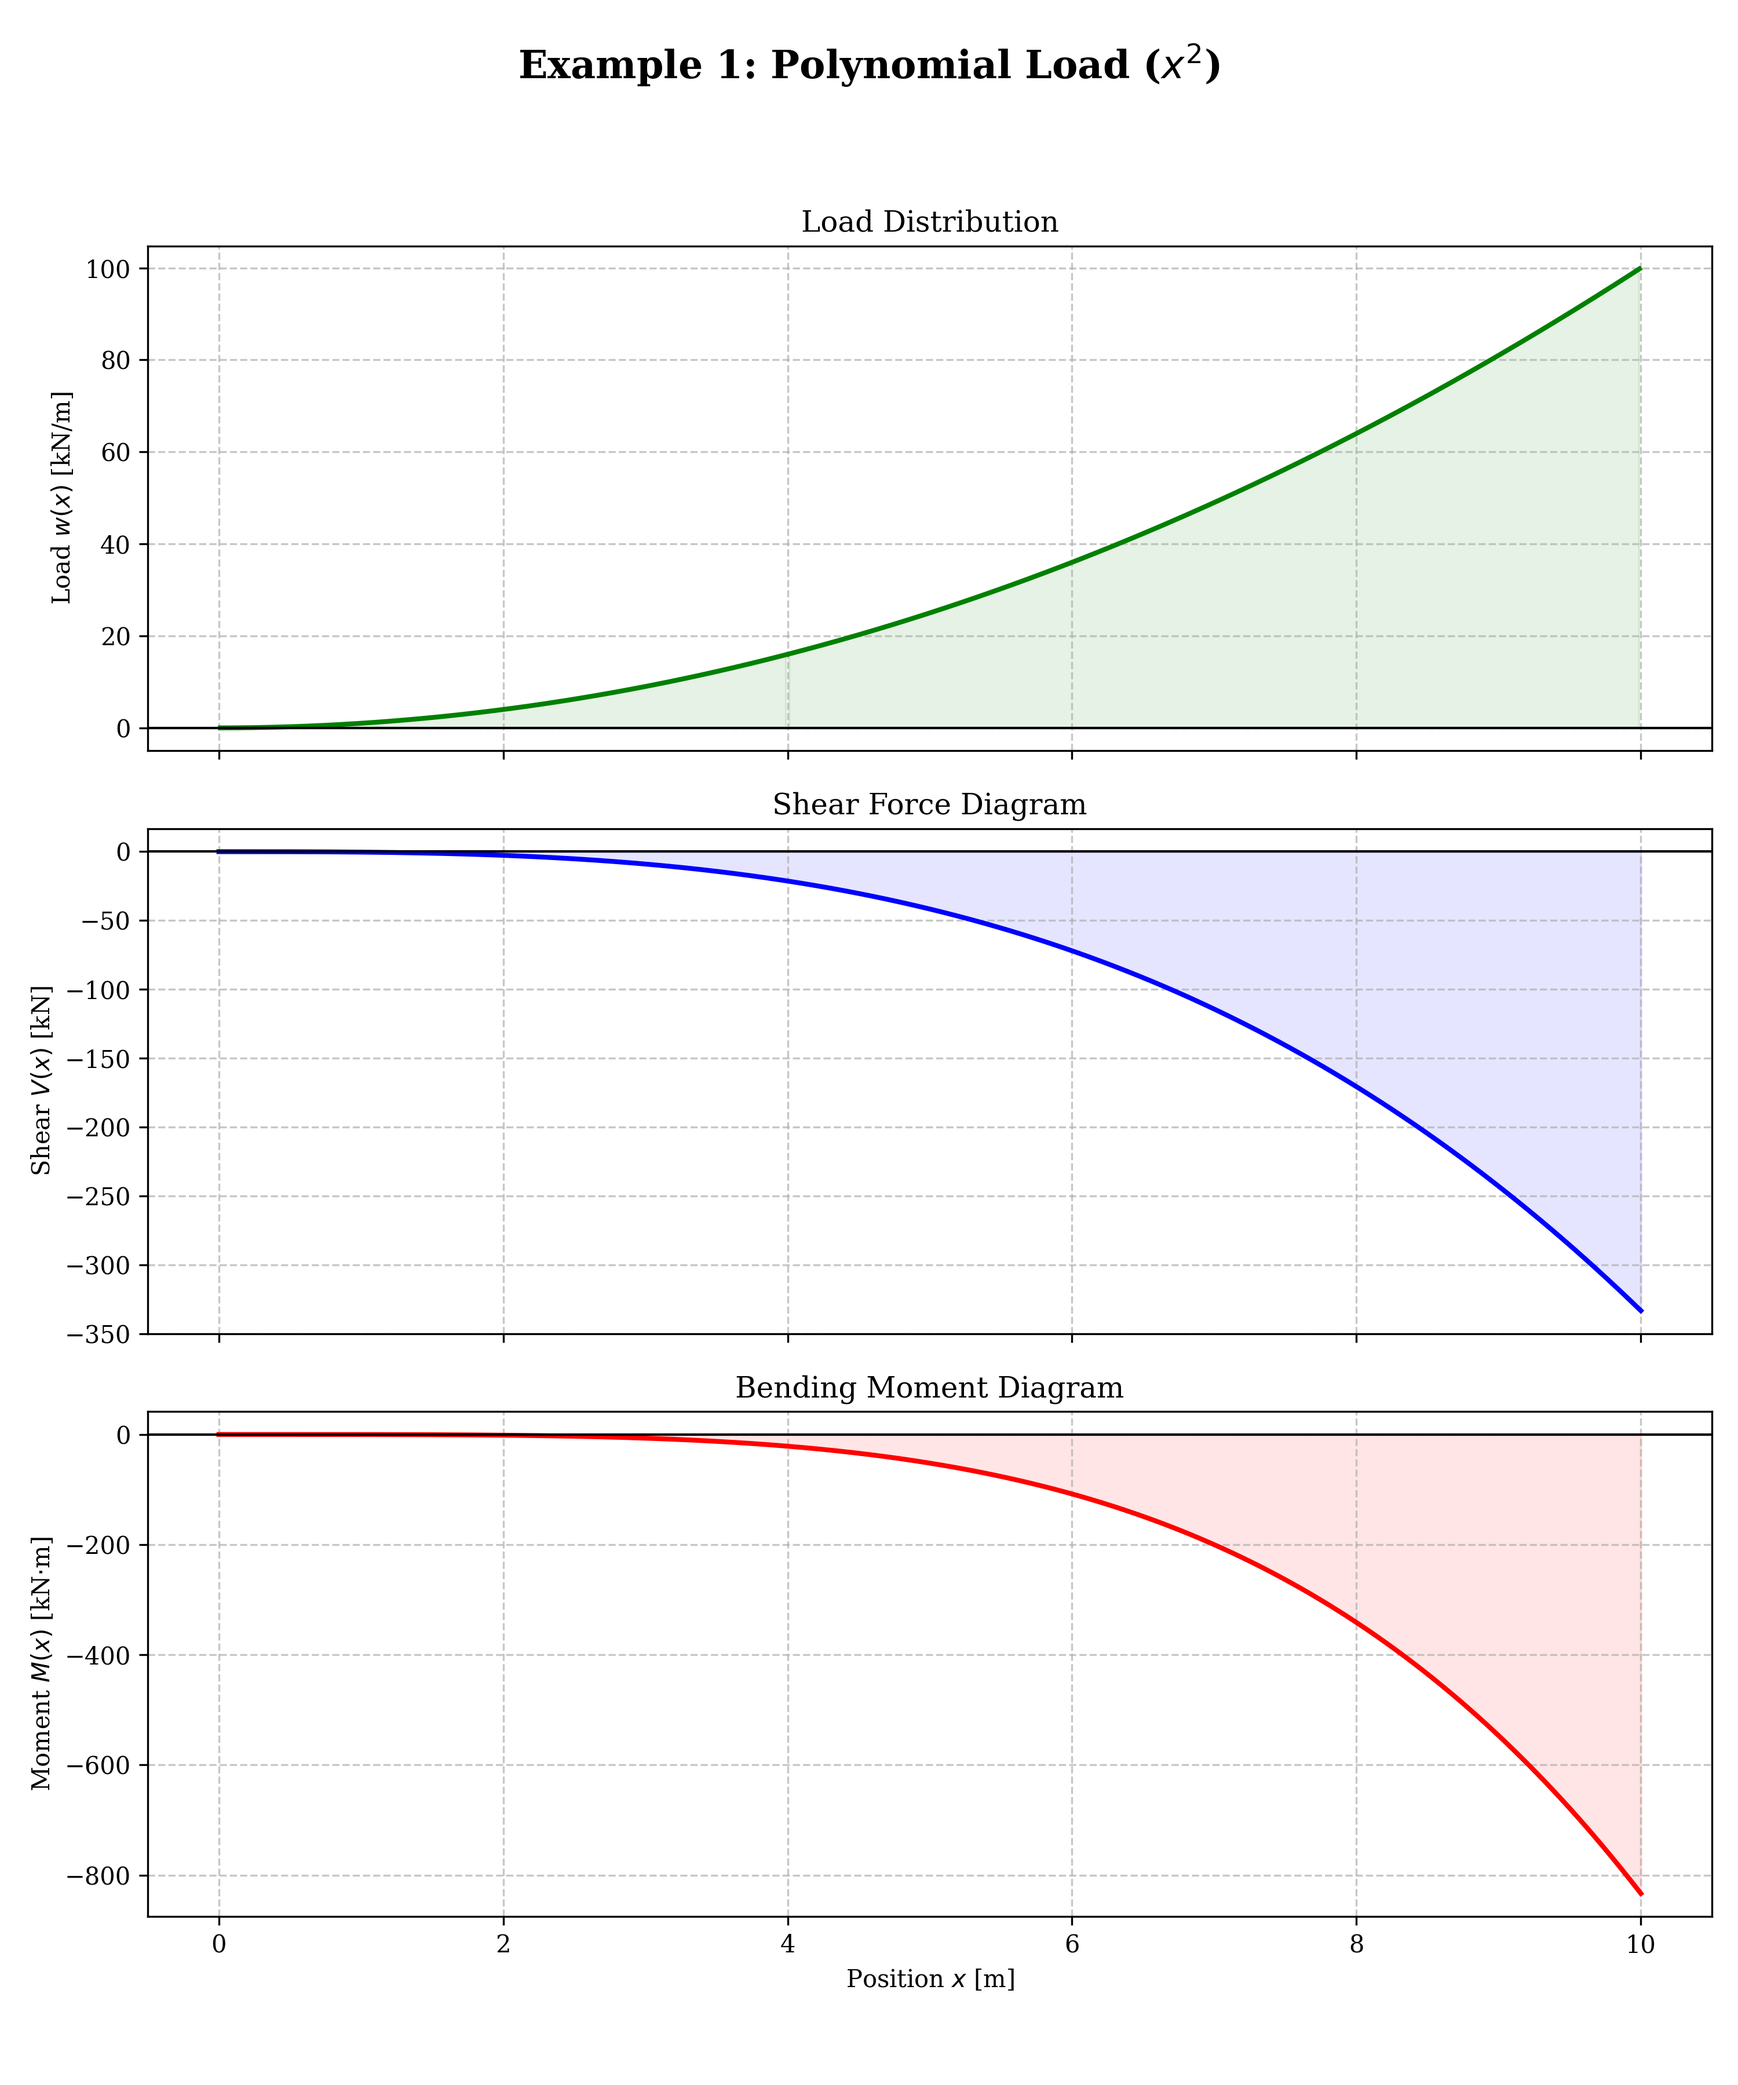
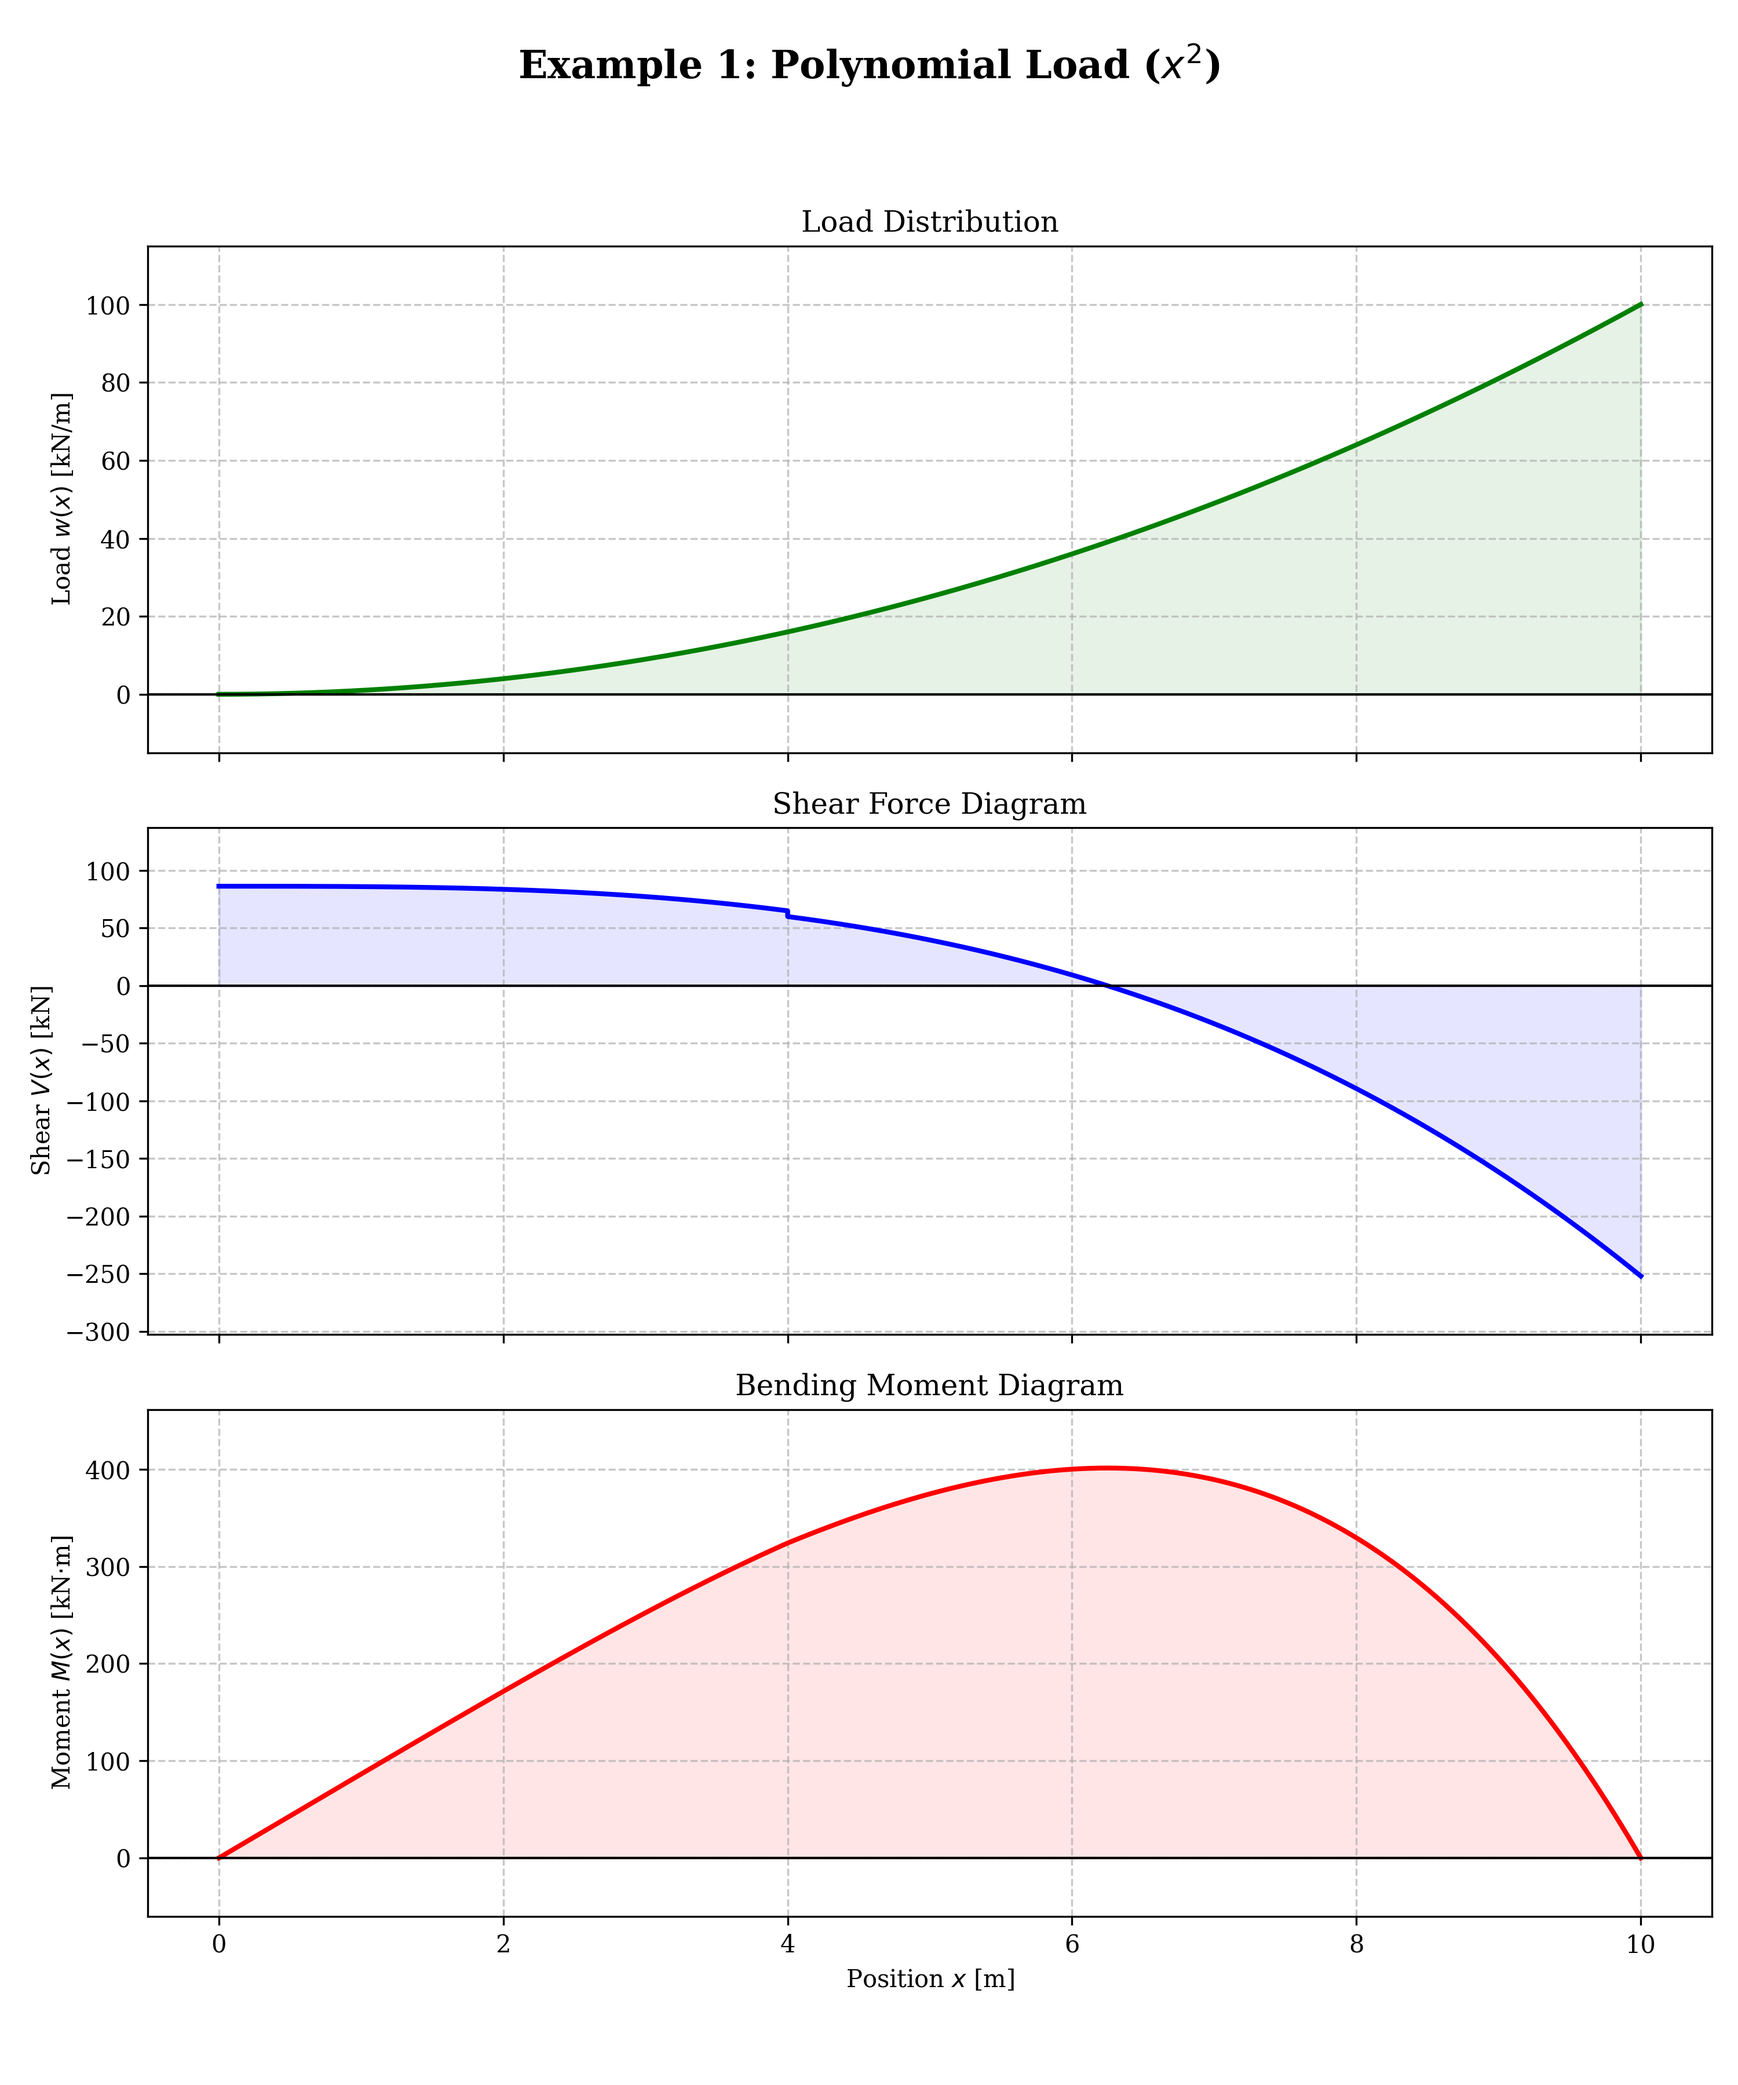
Refactor Visualizer and Beam Analyzer: fixed discontinuity plotting, resolved floating graph and boundary parity, eliminated expression bloat, padded y-limits, added developer max mode

diff --git a/visualizer.py b/visualizer.py
@@ -86,7 +86,11 @@ class BeamVisualizer:
             p_start = sorted_points[i]
             p_end = sorted_points[i + 1]
             n_seg = max(2, int(num_points * (p_end - p_start) / self.L))
-            seg_x = np.linspace(p_start, p_end, n_seg)
+            
+            # Step offset captures mathematically accurate Right/Left Limits 
+            # without triggering exact symbolic edge collision evaluation
+            eps = 1e-9
+            seg_x = np.linspace(p_start + eps, p_end - eps, n_seg)
 
             try:
                 with np.errstate(divide='ignore', invalid='ignore'):
@@ -97,10 +101,8 @@ class BeamVisualizer:
             x_final.extend(seg_x)
             y_final.extend(seg_y)
 
-            # Insert NaN gap at internal boundaries to break the line
-            if i < len(sorted_points) - 2:
-                x_final.append(p_end)
-                y_final.append(np.nan)
+            # Note: We omit internal NaN insertion here to force 
+            # vertical "jumps" to draw correctly across boundaries.
 
         return np.array(x_final), np.array(y_final)
 
@@ -110,8 +112,18 @@ class BeamVisualizer:
             self.analyzer.solve_reactions()
 
         load = self.analyzer.get_distributed_load_expr()
-        shear = self.analyzer.get_shear_force()
-        moment = self.analyzer.get_bending_moment()
+        shear = self.analyzer.beam.shear_force()
+        moment = self.analyzer.beam.bending_moment()
+
+        def set_padded_ylim(ax, y_vals):
+            """Ensures boundary jumps aren't cut off by adding a 15% visual pad."""
+            valid_y = y_vals[np.isfinite(y_vals)]
+            if len(valid_y) == 0:
+                return
+            y_min, y_max = np.min(valid_y), np.max(valid_y)
+            rng = y_max - y_min
+            pad = 1.0 if rng == 0 else rng * 0.15
+            ax.set_ylim(y_min - pad, y_max + pad)
 
         fig, (ax1, ax2, ax3) = plt.subplots(3, 1, figsize=(10, 12), sharex=True)
         fig.suptitle(title, fontsize=16, fontweight='bold')
@@ -124,6 +136,7 @@ class BeamVisualizer:
         ax1.set_title('Load Distribution')
         ax1.grid(True, linestyle='--', alpha=0.7)
         ax1.axhline(0, color='black', linewidth=1)
+        set_padded_ylim(ax1, y_w)
 
         # --- Shear Force Diagram ---
         x_v, y_v = self._get_plot_data(shear)
@@ -133,6 +146,7 @@ class BeamVisualizer:
         ax2.set_title('Shear Force Diagram')
         ax2.grid(True, linestyle='--', alpha=0.7)
         ax2.axhline(0, color='black', linewidth=1)
+        set_padded_ylim(ax2, y_v)
 
         # --- Bending Moment Diagram ---
         x_m, y_m = self._get_plot_data(moment)
@@ -143,6 +157,7 @@ class BeamVisualizer:
         ax3.set_title('Bending Moment Diagram')
         ax3.grid(True, linestyle='--', alpha=0.7)
         ax3.axhline(0, color='black', linewidth=1)
+        set_padded_ylim(ax3, y_m)
 
         plt.tight_layout(rect=[0, 0.03, 1, 0.95])
 

diff --git a/beam_analyzer.py b/beam_analyzer.py
@@ -45,6 +45,7 @@ class BeamAnalyzer:
         self.reactions = {}
         self._solved = False
         self._reaction_positions = {}
+        self.sys_matrices = (None, None)
 
     # ------------------------------------------------------------------
     # Defensive Programming
@@ -317,15 +318,32 @@ class BeamAnalyzer:
             except Exception:
                 sols = sympy_solve(equations, C, dict=True)
                 sol_dict = {k: nsimplify(v.expand()) for k, v in sols[0].items()} if sols else {c: 0 for c in C}
+            
+            self.sys_matrices = (A, B)
 
         # Plug back into Beam object
         final_theta = piecewise_theta.subs(sol_dict).rewrite(Piecewise)
         final_y = piecewise_y.subs(sol_dict).rewrite(Piecewise)
 
         # Upgrade engine without breaking dashboard
+        self.beam.shear_force = lambda **kwargs: _safe_simplify(piecewise_fold(self.get_shear_force().rewrite(Piecewise)))
+        self.beam.bending_moment = lambda **kwargs: _safe_simplify(piecewise_fold(self.get_bending_moment().rewrite(Piecewise)))
         self.beam.slope = lambda **kwargs: final_theta
         self.beam.deflection = lambda **kwargs: final_y
         return True
+
+    def print_matrix_state(self):
+        """Developer Mode: Print the state of boundary condition assembly."""
+        A, B = self.sys_matrices
+        if A is None or B is None:
+            print("[DevMode] Systems matrices not assembled yet.")
+            return
+
+        print(f"\n[DevMode] Boundary Condition Matrix [A] ({A.rows}x{A.cols}):")
+        from sympy import pprint
+        pprint(A)
+        print(f"\n[DevMode] Output State Vector [B] ({B.rows}x{B.cols}):")
+        pprint(B)
 
     # ------------------------------------------------------------------
     # Analysis Results
@@ -337,11 +355,12 @@ class BeamAnalyzer:
         
         if not self._solved:
             self.solve_reactions()
-        # Force Piecewise rewrite at the start of analysis
+        # DO NOT force Piecewise rewrite here. Let dispatch_integration handle 
+        # the SingularityFunction accumulation boundaries inherently.
         self.load_expression = self.beam.load.subs(self.reactions)
-        self.load_expression = self.load_expression.rewrite(Piecewise)
         shear = -dispatch_integration(self.load_expression, self.x)
-        return _safe_simplify(shear)
+        # Avoid simplifying intermediate integrations to preserve Add structure
+        return shear
 
     #M(x) = integral(V(x)) using the Smart Dispatcher.
 
@@ -349,7 +368,8 @@ class BeamAnalyzer:
         
         sf = self.get_shear_force()
         moment = dispatch_integration(sf, self.x)
-        return _safe_simplify(moment)
+        # Avoid simplifying intermediate integrations to preserve Add structure
+        return moment
 
     #Returns the combined load expression for plotting.
 

diff --git a/main.py b/main.py
@@ -5,7 +5,7 @@ matplotlib.use('Agg')
 from beam_analyzer import BeamAnalyzer
 from visualizer import BeamVisualizer
 
-def print_analytical_results(analyzer):
+def print_analytical_results(analyzer, dev_mode=False):
     analyzer.assemble_system()
     print("   [Analytical Results]")
     
@@ -13,20 +13,21 @@ def print_analytical_results(analyzer):
     print(f"   Reactions: {reactions_str}")
     
     print("   Shear Force V(x):")
-    print(f"     {analyzer._tame_expression(analyzer.get_shear_force())}")
+    print(f"     {analyzer._tame_expression(analyzer.beam.shear_force())}")
     
     print("   Bending Moment M(x):")
-    print(f"     {analyzer._tame_expression(analyzer.get_bending_moment())}")
+    print(f"     {analyzer._tame_expression(analyzer.beam.bending_moment())}")
     
     print("   Slope θ(x):")
     print(f"     {analyzer._tame_expression(analyzer.beam.slope())}")
     
     print("   Deflection y(x):")
     print(f"     {analyzer._tame_expression(analyzer.beam.deflection())}")
+    
+    if dev_mode:
+        analyzer.print_matrix_state()
 
 def run_demo():
-    print("=== GSoC 2026: Beam Analyzer Prototype ===")
-    print("Exact Symbolic Integration & Professional Visualization\n")
 
     # Example 1: Polynomial Load
     print(">>> Example 1: Polynomial Distributed Load")
@@ -71,13 +72,13 @@ def run_demo():
     a4.add_distributed_load("3", 5, 10)
     a4.add_point_load(6, 3)
     a4.solve_reactions()
-    print_analytical_results(a4)
+    print_analytical_results(a4, dev_mode=True)
     BeamVisualizer(a4).plot_3stack(
         title="Example 4: Combined Loading",
         save_name="combined_loading.png"
     )
 
-    print("\n=== Demo Completed Successfully ===")
+    print("\n----------- Demo Completed Successfully -----------")
     print("Results exported to docs/gallery/")
 
 
